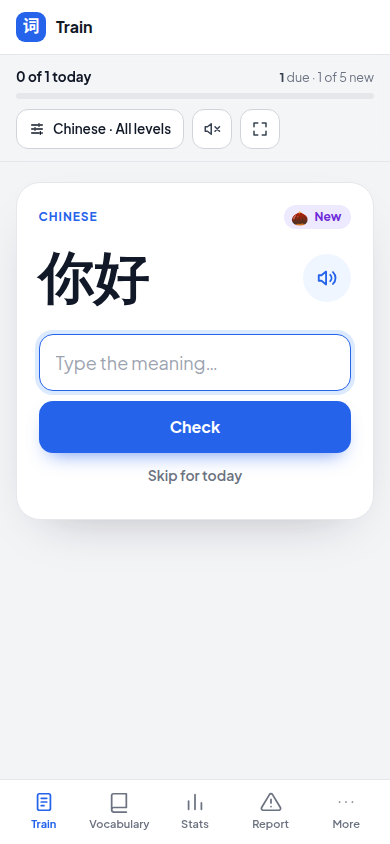
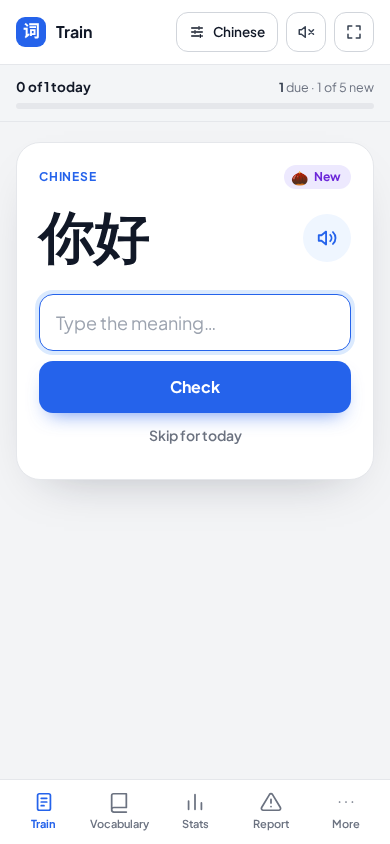
Move Train session chip and audio/fullscreen buttons into phone top bar
On screens under 880px the chip, autoplay and fullscreen buttons sit in the
shell's top bar and the chip shows only the mode name, freeing the session bar.

diff --git a/e2e/train-redesign.spec.js b/e2e/train-redesign.spec.js
@@ -283,4 +283,32 @@ test.describe('Train redesign – phone', () => {
     await page.locator('#filter-overlay-close').click();
     await expect(page.locator('#session-chip-label')).toContainText('Progressive');
   });
+
+  test('session chip, sound and fullscreen buttons live in the top bar and the chip shows only the mode', async ({ page }) => {
+    await registerUser(page);
+    await seed(page, '你好', 'nǐ hǎo', ['hello']);
+    await useMode(page, 'cycle');
+    await page.goto('/train');
+    await expect(page.locator('#card-area')).toBeVisible({ timeout: 12_000 });
+
+    const topbar = page.locator('#app-topbar');
+    await expect(topbar.locator('#open-filter-overlay')).toBeVisible();
+    await expect(topbar.locator('#autoplay-toggle-btn')).toBeVisible();
+    await expect(topbar.locator('#fullscreen-toggle-btn')).toHaveCount(1);
+    await expect(page.locator('#session-bar #open-filter-overlay')).toHaveCount(0);
+    await expect(page.locator('#session-chip-label')).toContainText('Cycle');
+    await expect(page.locator('#session-chip-label .tr-chip-extra')).toBeHidden();
+    await captureForPR(page, 'train-topbar-phone');
+
+    // The chip still opens the session sheet from the top bar.
+    await topbar.locator('#open-filter-overlay').click();
+    await expect(page.locator('#filter-overlay')).toBeVisible();
+    await page.locator('#filter-overlay-close').click();
+
+    // Back on a wide screen the buttons return to the session bar.
+    await page.setViewportSize({ width: 1280, height: 900 });
+    await expect(page.locator('#session-bar #open-filter-overlay')).toBeVisible();
+    await expect(topbar.locator('#open-filter-overlay')).toHaveCount(0);
+    await expect(page.locator('#session-chip-label .tr-chip-extra')).toBeVisible();
+  });
 });

diff --git a/service/frontend/app.css b/service/frontend/app.css
@@ -390,6 +390,12 @@ label.st-text { cursor: pointer; }
 .tr-bar-actions { display: flex; align-items: center; gap: 8px; flex-wrap: wrap; }
 .tr-chip { display: flex; align-items: center; gap: 8px; min-height: 40px; padding: 8px 12px; border-radius: 12px; border: 1px solid #d1d5db; background: #fff; color: #111827; font-size: 13.5px; font-weight: 600; white-space: nowrap; cursor: pointer; font-family: inherit; max-width: 100%; }
 .tr-chip span { overflow: hidden; text-overflow: ellipsis; }
+@media (max-width: 879px) {
+  .tr-chip-extra { display: none; }
+  .app-topbar .tr-bar-actions { margin-left: auto; flex-wrap: nowrap; min-width: 0; }
+  .app-topbar .tr-chip { min-width: 0; }
+  .app-topbar .tr-icon-btn { flex-shrink: 0; }
+}
 .tr-icon-btn { width: 40px; height: 40px; border-radius: 12px; border: 1px solid #d1d5db; background: #fff; color: #374151; display: flex; align-items: center; justify-content: center; cursor: pointer; flex: none; }
 .tr-icon-btn[aria-pressed="true"] { border-color: #2563eb; background: #eff6ff; color: #2563eb; }
 .tr-icon-btn.hidden { display: none; }

diff --git a/service/frontend/train-card.js b/service/frontend/train-card.js
@@ -129,6 +129,18 @@ document.addEventListener('DOMContentLoaded', () => {
   if (_isTrainActive()) _trainStartMs = Date.now();
 });
 // ── End training-time tracking ───────────────────────────────────────────────
+
+// Phone: the chip + sound + fullscreen buttons sit in the shell's top bar.
+document.addEventListener('DOMContentLoaded', () => {
+  const actions = document.querySelector('#session-bar .tr-bar-actions');
+  const topbar = document.getElementById('app-topbar');
+  if (!actions || !topbar) return;
+  const home = actions.parentElement;
+  const mq = window.matchMedia('(max-width: 879px)');
+  const place = () => (mq.matches ? topbar : home).appendChild(actions);
+  mq.addEventListener('change', place);
+  place();
+});
 let selectedTags = JSON.parse(localStorage.getItem('quizTags') || '[]');
 let selectedBucket = localStorage.getItem('quizBucket') || '';
 let selectedLangs = JSON.parse(localStorage.getItem('quizLangs') || '["en"]');

diff --git a/service/frontend/train-settings.js b/service/frontend/train-settings.js
@@ -28,9 +28,13 @@ function updateSessionChip() {
   if (!el) return;
   const tier = TIERS.find(x => x.key === selectedBucket);
   const level = tier ? t(tier.i18nKey) : t('tier.allLevels');
-  let label = `${t('mode.' + selectedMode)} · ${level}`;
-  if (selectedTags.length) label += ` · ${t('session.tagCount', { n: selectedTags.length })}`;
-  el.textContent = label;
+  let extra = ` · ${level}`;
+  if (selectedTags.length) extra += ` · ${t('session.tagCount', { n: selectedTags.length })}`;
+  el.textContent = t('mode.' + selectedMode);
+  const extraEl = document.createElement('span');
+  extraEl.className = 'tr-chip-extra';
+  extraEl.textContent = extra;
+  el.appendChild(extraEl);
 }
 
 function setPressed(el, on) {
